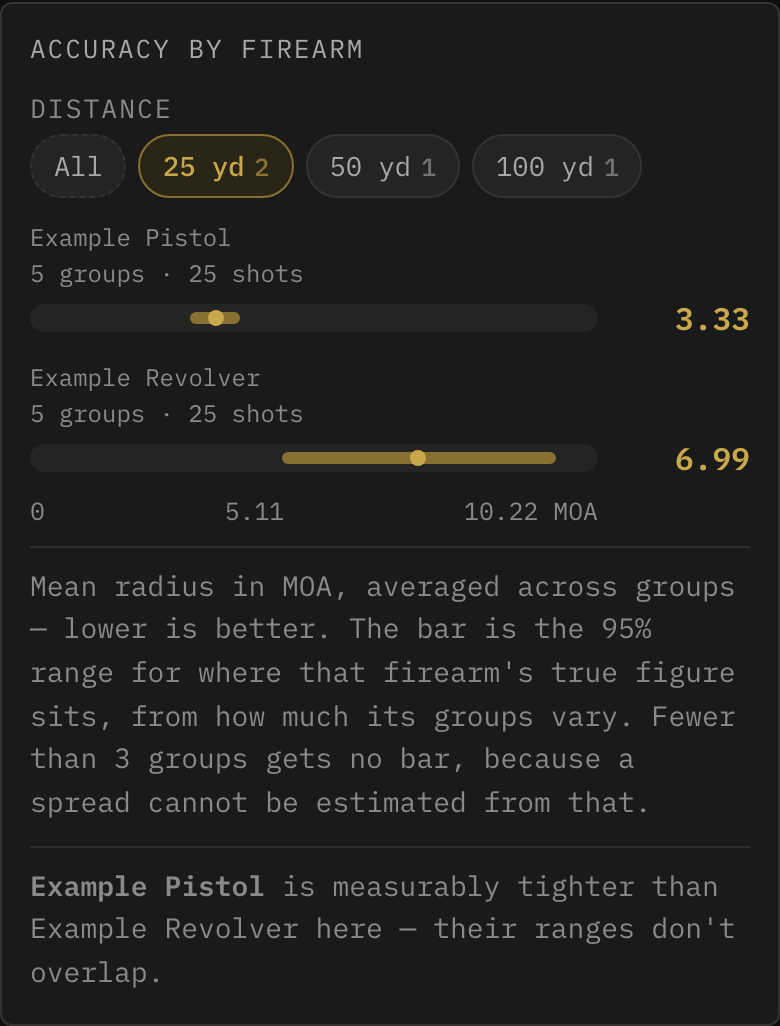
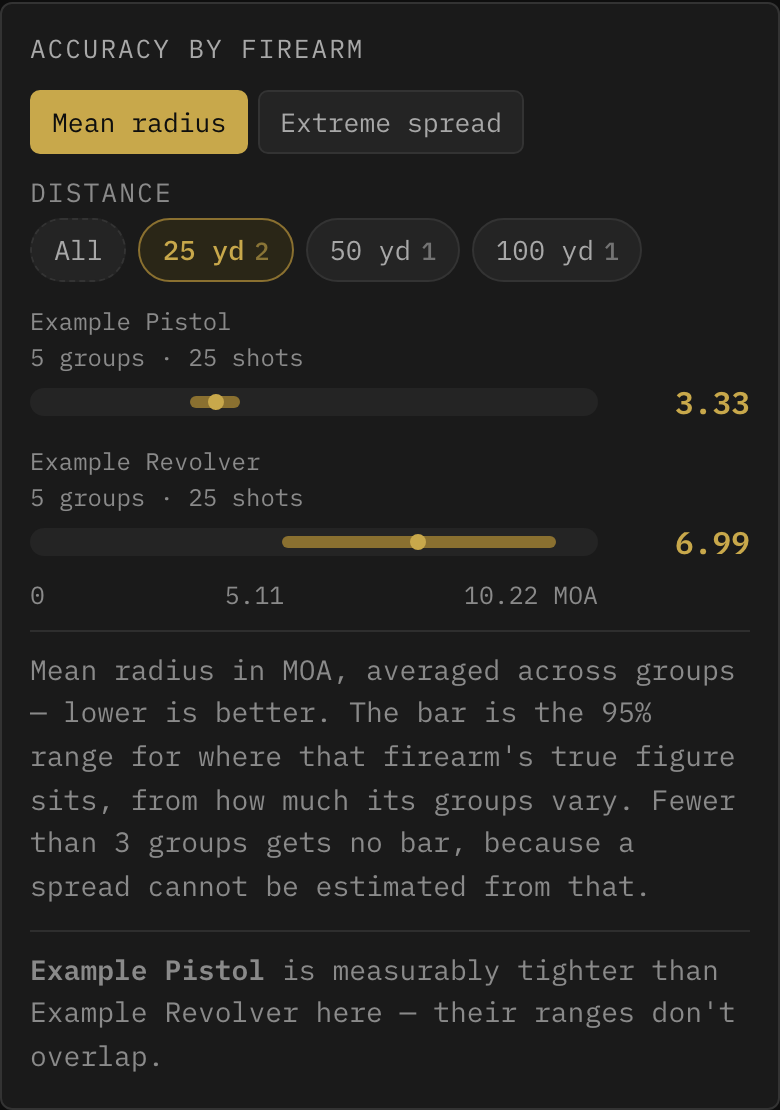
Offer extreme spread in the all-firearms comparison too (v7.8.4)
The ranking under All Firearms was still mean-radius only, so the toggle
added in 7.8.3 reached every chart for one firearm and then stopped at the
one view that compares them. It now sits at the top of that card as well and
drives the figures, the axis, the caption and the sort order.

One state, not one per pane: switch to extreme spread while comparing
firearms, pick one of them, and the single-firearm pane is already on it.
Which figure you are reading is a preference about you, not about the screen
you happen to be on. The toggle markup and the raw-geometry-to-figure step
are now shared helpers, so a third view cannot pick up one and miss the
other.

Extreme spread is most misleading exactly here, because this view ranks: a
firearm shot in 3-round strings would place above an identical one shot in
5s, purely from round count. So the Shots chips exist here too -- and unlike
ammo, which means different things across calibers and still gets no row, a
5-shot group is a 5-shot group whatever fired it. When the counts differ the
view names the range, says which way the bias runs, and points at both ways
out.

README and the two Groups screenshots follow.

diff --git a/app.js b/app.js
@@ -3856,18 +3856,20 @@ function tCrit(df) { return df < 1 ? NaN : (df < T95.length ? T95[df] : 1.96); }
 // carry no interval and take no part in any claim that two differ.
 const MIN_GROUPS_FOR_INTERVAL = 3;
 
-// Accuracy per firearm over whatever the shared filters and the distance chips leave in
-// scope. The estimate averages each group's mean radius; the uncertainty is the spread
-// *between* groups, because the question is how the firearm shoots in general, not how one
-// particular target came out.
-function firearmAccuracy(distances) {
+// Accuracy per firearm over whatever the shared filters and the scope chips leave in play.
+// The estimate averages each group's size in the metric currently selected; the uncertainty is
+// the spread *between* groups, because the question is how the firearm shoots in general, not
+// how one particular target came out.
+function firearmAccuracy(distances, shotCounts) {
+  const M = currentGroupMetric();
   const { start, end } = getStatsRangeBounds();
   const locId = document.getElementById('stats-location').value;
 
   return (data.firearms || []).map(gun => {
-    const mrs = [];
+    const vals = [];
     let shots = 0;
     const seen = new Set();
+    const counts = new Set();
     (gun.groups || []).forEach(g => {
       if (start && g.date < start) return;
       if (end && g.date > end) return;
@@ -3880,22 +3882,27 @@ function firearmAccuracy(distances) {
       const dIn = groupDistanceInches(g);
       const m = groupMetrics(groupToInches(g));
       if (!m || !dIn) return;
+      // Shot count is only known once the group has been measured, so this filter sits below
+      // the others rather than beside them.
+      if (shotCounts && shotCounts.size && !shotCounts.has(String(m.n))) return;
       seen.add(label);
-      mrs.push(toMOA(m.meanRadius, dIn));
+      counts.add(m.n);
+      vals.push(M.of(groupFigures(m, dIn)));
       shots += m.n;
     });
-    if (!mrs.length) return null;
+    if (!vals.length) return null;
 
-    const n = mrs.length;
-    const mean = mrs.reduce((a, b) => a + b, 0) / n;
+    const n = vals.length;
+    const mean = vals.reduce((a, b) => a + b, 0) / n;
     const sd = n > 1
-      ? Math.sqrt(mrs.reduce((a, b) => a + (b - mean) ** 2, 0) / (n - 1)) : 0;
+      ? Math.sqrt(vals.reduce((a, b) => a + (b - mean) ** 2, 0) / (n - 1)) : 0;
     const half = n >= MIN_GROUPS_FOR_INTERVAL ? tCrit(n - 1) * (sd / Math.sqrt(n)) : null;
     return {
       gun, n, shots, mean,
       lo: half == null ? null : Math.max(0, mean - half),
       hi: half == null ? null : mean + half,
       distances: [...seen].sort(),
+      counts: [...counts].sort((a, b) => a - b),
     };
   }).filter(Boolean).sort((a, b) => a.mean - b.mean);
 }
@@ -3906,6 +3913,27 @@ function firearmAccuracy(distances) {
 function accuracySeparated(a, b) {
   if (a.lo == null || b.lo == null) return false;
   return a.hi < b.lo || b.hi < a.lo;
+}
+
+// The all-firearms view rolls its own chips rather than reusing renderGroupScope, because its
+// counts are firearms that qualify, not groups. One builder so its two rows cannot drift apart
+// in markup or behavior, and so both hide themselves on a single value the way that pane does.
+function firearmScopeRow(dim, label, values, countOf, short = v => v) {
+  if (values.length < 2) return '';
+  const sel = groupScope[dim];
+  return `
+    <div class="scope-row">
+      <label class="filter-label">${label}</label>
+      <div class="scope-chips">
+        <button class="scope-chip scope-all${sel.size ? '' : ' on'}"
+                aria-pressed="${!sel.size}"
+                onclick="toggleGroupScope('${dim}', null)">All</button>
+        ${values.map(v => `<button class="scope-chip${sel.has(v) ? ' on' : ''}"
+            aria-pressed="${sel.has(v)}"
+            onclick="toggleGroupScope('${dim}', ${JSON.stringify(v).replace(/"/g, '&quot;')})"
+            ><span class="scope-chip-t">${esc(short(v))}</span><b>${countOf(v)}</b></button>`).join('')}
+      </div>
+    </div>`;
 }
 
 function renderFirearmCompare(el) {
@@ -3925,28 +3953,24 @@ function renderFirearmCompare(el) {
   // "type your own" in the dropdowns. Scope state starts null anyway, so the all-firearms
   // view and a fresh app agree without a special value.
   resetGroupScopeIfGunChanged(null);
-  const everything = firearmAccuracy(null);
+  const everything = firearmAccuracy(null, null);
   const allDistances = [...new Set(everything.flatMap(r => r.distances))]
     .sort((a, b) => parseFloat(a) - parseFloat(b));
+  // Shot counts compare across firearms in a way ammo does not — a 5-shot group is a 5-shot
+  // group whatever it was fired from — so unlike ammo this one earns a row here.
+  const allShots = [...new Set(everything.flatMap(r => r.counts))]
+    .sort((a, b) => a - b).map(String);
   [...groupScope.distance].forEach(d => { if (!allDistances.includes(d)) groupScope.distance.delete(d); });
+  [...groupScope.shots].forEach(v => { if (!allShots.includes(v)) groupScope.shots.delete(v); });
 
-  const rows = firearmAccuracy(groupScope.distance);
+  const rows = firearmAccuracy(groupScope.distance, groupScope.shots);
   const inScope = [...new Set(rows.flatMap(r => r.distances))];
 
-  const chips = allDistances.length > 1 ? `
-    <div class="scope-row">
-      <label class="filter-label">Distance</label>
-      <div class="scope-chips">
-        <button class="scope-chip scope-all${groupScope.distance.size ? '' : ' on'}"
-                onclick="toggleGroupScope('distance', null)">All</button>
-        ${allDistances.map(d => {
-          const n = everything.filter(r => r.distances.includes(d)).length;
-          return `<button class="scope-chip${groupScope.distance.has(d) ? ' on' : ''}"
-                    onclick="toggleGroupScope('distance', ${JSON.stringify(d).replace(/"/g, '&quot;')})"
-                    ><span class="scope-chip-t">${esc(d)}</span><b>${n}</b></button>`;
-        }).join('')}
-      </div>
-    </div>` : '';
+  const chips =
+    firearmScopeRow('distance', 'Distance', allDistances,
+      d => everything.filter(r => r.distances.includes(d)).length) +
+    firearmScopeRow('shots', 'Shots', allShots,
+      v => everything.filter(r => r.counts.includes(Number(v))).length, v => `${v}-shot`);
 
   // The gap between a bench rifle at 50 yd and a handgun at 25 ft dwarfs any difference
   // between the firearms themselves, so an unfiltered list mostly ranks shooting positions.
@@ -3956,8 +3980,21 @@ function renderFirearmCompare(el) {
       different disciplines before they are different firearms — <b>pick one distance</b> for
       this to be about the firearms.</span></div>` : '';
 
+  // Extreme spread grows with round count, so ranking firearms by it across a mix of shot
+  // counts partly ranks the strings they happened to be shot in. Only said under the metric it
+  // applies to, and only when the mix is really there — in which case the Shots row is showing,
+  // since it appears under exactly this condition.
+  const countsInScope = [...new Set(rows.flatMap(r => r.counts))].sort((a, b) => a - b);
+  const mixedShots = groupMetric === 'es' && countsInScope.length > 1 ? `
+    <div class="poi-caveat"><span class="i">⚠</span><span>These groups run
+      ${countsInScope[0]} to ${countsInScope[countsInScope.length - 1]} shots, and extreme
+      spread grows with shot count — whichever firearm was shot in shorter strings is flattered
+      here. <b>Pick one shot count</b> above, or read this on mean radius, which does not
+      drift with it.</span></div>` : '';
+
   if (!rows.length) {
-    el.innerHTML = `<div class="stats-chart-card">${chips}
+    el.innerHTML = `<div class="stats-chart-card">
+      ${groupMetricToggle()}${chips}
       <div class="stats-empty">No measurable groups in this range.</div></div>`;
     return;
   }
@@ -4008,15 +4045,17 @@ function renderFirearmCompare(el) {
   el.innerHTML = `
     <div class="stats-chart-card">
       <div class="stats-chart-title">Accuracy by firearm</div>
+      ${groupMetricToggle()}
       ${chips}
       ${rowsHtml}
       <div class="fa-axis"><span>0</span><span>${gFmt(max / 2)}</span><span>${gFmt(max)} MOA</span></div>
-      <div class="stats-note">Mean radius in MOA, averaged across groups — lower is better.
+      <div class="stats-note">${currentGroupMetric().label} in MOA, averaged across groups — lower is better.
         The bar is the 95% range for where that firearm's true figure sits, from how much its
         groups vary. Fewer than ${MIN_GROUPS_FOR_INTERVAL} groups gets no bar, because a
         spread cannot be estimated from that.</div>
       ${verdict}
       ${mixed}
+      ${mixedShots}
     </div>`;
 }
 
@@ -4041,6 +4080,25 @@ const GROUP_METRICS = {
 let groupMetric = 'mr';
 
 function currentGroupMetric() { return GROUP_METRICS[groupMetric] || GROUP_METRICS.mr; }
+
+// The shape both accessors read, built from raw geometry. Every view that wants "the figure"
+// goes through this and GROUP_METRICS.of rather than converting one of them itself, so the
+// toggle can never reach one chart and miss another.
+function groupFigures(m, dIn) {
+  return { mrMOA: toMOA(m.meanRadius, dIn), esMOA: toMOA(m.es, dIn) };
+}
+
+// The toggle itself. Rendered in both places that plot group size — the per-firearm pane and
+// the all-firearms comparison — off the same state, since which figure you are reading is one
+// preference and not one per screen.
+function groupMetricToggle() {
+  const cur = currentGroupMetric();
+  return `<div class="metric-ctrl" role="group" aria-label="Group size metric">
+    ${Object.values(GROUP_METRICS).map(o => `<button type="button"
+      class="${o.key === cur.key ? 'on' : ''}" aria-pressed="${o.key === cur.key}"
+      onclick="setGroupMetric('${o.key}')">${o.label}</button>`).join('')}
+  </div>`;
+}
 
 function setGroupMetric(key) {
   if (!GROUP_METRICS[key]) return;
@@ -4111,11 +4169,7 @@ function renderGroupsStats() {
   const sizes = groups.map(M.of);
   const days = [...new Set(groups.map(g => g.date))];
   document.getElementById('stats-groups-stats').innerHTML = `
-    <div class="metric-ctrl" role="group" aria-label="Group size metric">
-      ${Object.values(GROUP_METRICS).map(o => `<button type="button"
-        class="${o.key === M.key ? 'on' : ''}" aria-pressed="${o.key === M.key}"
-        onclick="setGroupMetric('${o.key}')">${o.label}</button>`).join('')}
-    </div>
+    ${groupMetricToggle()}
     <div class="stats-stat-grid">
       <div class="stats-stat-box">
         <div class="stats-stat-num">${gFmt(statsMedian(sizes))}<span class="unit"> MOA</span></div>
@@ -7316,7 +7370,7 @@ refreshAvailablePhotoIds().then(() => {
 });
 
 // ── SERVICE WORKER & UPDATE CHECK ─────────────────────────────────
-const APP_VERSION = '7.8.3';
+const APP_VERSION = '7.8.4';
 
 function showUpdateBanner() {
   const banner = document.getElementById('update-banner');

diff --git a/test/app.test.js b/test/app.test.js
@@ -1436,6 +1436,107 @@ describe('accuracy by firearm', () => {
     assert.strictEqual(countFor(win, 'A', true), 3, 'narrowing to one distance drops the rest');
   });
 
+  // ── THE METRIC, IN THE ALL-FIREARMS VIEW ──────────────────────────
+  // This pane ranks firearms against each other, which is exactly where extreme spread is
+  // most misleading: it grows with round count, so a firearm shot in 3-round strings would
+  // place above an identical one shot in 5s. It is offered anyway, because it is the figure
+  // people quote — with the mix named when there is one, and chips to remove it.
+
+  const promptText = win => flat(win.document.getElementById('stats-groups-prompt'));
+  const metricBtn = (win, label) =>
+    [...win.document.querySelectorAll('#stats-groups-prompt .metric-ctrl button')]
+      .find(b => flat(b) === label);
+  const scopeRowFor = (win, label) =>
+    [...win.document.querySelectorAll('#stats-groups-prompt .scope-row')]
+      .find(r => flat(r.querySelector('.filter-label')) === label);
+
+  test('the comparison offers both figures, and starts on mean radius', async () => {
+    const win = await app([{ name: 'Loose', groups: LOOSE }, { name: 'Tight', groups: TIGHT }]);
+    const btns = [...win.document.querySelectorAll('#stats-groups-prompt .metric-ctrl button')];
+    assert.deepStrictEqual(btns.map(b => flat(b)), ['Mean radius', 'Extreme spread']);
+    assert.ok(metricBtn(win, 'Mean radius').classList.contains('on'));
+    assert.match(promptText(win), /Mean radius in MOA, averaged across groups/);
+  });
+
+  test('switching moves every figure, not just the caption', async () => {
+    const win = await app([{ name: 'Loose', groups: LOOSE }, { name: 'Tight', groups: TIGHT }]);
+    const mr = rows(win).find(r => r.name === 'Tight').val;
+    win.setGroupMetric('es');
+    const es = rows(win).find(r => r.name === 'Tight').val;
+    // Five shots on a ring: extreme spread is the longest chord, 2r·sin72° = 1.902r.
+    assert.ok(Math.abs(parseFloat(es) / parseFloat(mr) - 1.902) < 0.02,
+      `expected about 1.9x, got ${es} against ${mr}`);
+    assert.match(promptText(win), /Extreme spread in MOA, averaged across groups/);
+    assert.doesNotMatch(promptText(win), /Mean radius in MOA/,
+      'the caption must not keep describing the figure you switched away from');
+  });
+
+  test('the ordering still holds when the metric changes', async () => {
+    const win = await app([{ name: 'Loose', groups: LOOSE }, { name: 'Tight', groups: TIGHT }]);
+    win.setGroupMetric('es');
+    assert.strictEqual(rows(win)[0].name, 'Tight',
+      'a ranked list must re-sort on the figure it is showing');
+  });
+
+  test('the choice carries over to a single firearm rather than resetting', async () => {
+    const win = await app([{ name: 'Loose', groups: LOOSE }, { name: 'Tight', groups: TIGHT }]);
+    win.setGroupMetric('es');
+    win.document.getElementById('stats-firearm').value = 'g2';
+    win.renderStats();
+    assert.match(flat(win.document.getElementById('stats-groups-stats')),
+      /Median extreme spread/, 'which figure you are reading is one preference, not one per pane');
+  });
+
+  test('a mix of shot counts is called out, but only under extreme spread', async () => {
+    const threes = [1, 2, 3].map((d, i) => ringGroup(`a${i}`, `2026-05-0${d}`, 0.5, 3));
+    const fives = [1, 2, 3].map((d, i) => ringGroup(`b${i}`, `2026-05-0${d}`, 0.5, 5));
+    const win = await app([{ name: 'Short strings', groups: threes },
+                           { name: 'Long strings', groups: fives }]);
+    assert.doesNotMatch(promptText(win), /grows with shot count/,
+      'mean radius does not drift with round count, so there is nothing to warn about');
+    win.setGroupMetric('es');
+    assert.match(promptText(win), /These groups run 3 to 5 shots/);
+    assert.match(promptText(win), /shorter strings is flattered/);
+  });
+
+  test('a Shots row is offered only when the count actually varies', async () => {
+    const even = await app([{ name: 'A', groups: TIGHT }, { name: 'B', groups: LOOSE }]);
+    assert.ok(!scopeRowFor(even, 'Shots'), 'one count across every firearm is not a choice');
+
+    const threes = [1, 2, 3].map((d, i) => ringGroup(`a${i}`, `2026-05-0${d}`, 0.5, 3));
+    const win = await app([{ name: 'A', groups: [...threes, ...TIGHT] },
+                           { name: 'B', groups: LOOSE }]);
+    assert.ok(scopeRowFor(win, 'Shots'), 'a mix is exactly what needs narrowing');
+  });
+
+  test('picking one shot count narrows the comparison and clears the caveat', async () => {
+    const threes = [1, 2, 3].map((d, i) => ringGroup(`a${i}`, `2026-05-0${d}`, 0.5, 3));
+    const win = await app([{ name: 'A', groups: [...threes, ...TIGHT] },
+                           { name: 'B', groups: LOOSE }]);
+    win.setGroupMetric('es');
+    assert.match(promptText(win), /These groups run 3 to 5 shots/);
+    const n = name => win.eval(
+      `firearmAccuracy(groupScope.distance, groupScope.shots)
+         .find(r => r.gun.name === ${JSON.stringify(name)}).n`);
+    assert.strictEqual(n('A'), 7, 'three 3-shot groups plus four 5-shot ones');
+    win.toggleGroupScope('shots', '5');
+    assert.strictEqual(n('A'), 4, 'narrowing to 5-shot drops the short strings');
+    assert.doesNotMatch(promptText(win), /These groups run/,
+      'one count in scope is one measurement, so there is no mix left to warn about');
+  });
+
+  test('a shot count that leaves the range is dropped, not left stuck', async () => {
+    const threes = [1, 2, 3].map((d, i) => ringGroup(`a${i}`, `2026-05-0${d}`, 0.5, 3));
+    const win = await app([{ name: 'A', groups: [...threes, ...TIGHT] },
+                           { name: 'B', groups: LOOSE }]);
+    win.toggleGroupScope('shots', '3');
+    assert.strictEqual(win.eval('groupScope.shots.size'), 1);
+    win.eval("data.firearms[0].groups = data.firearms[0].groups.filter(g => g.impacts.length === 5);");
+    win.renderStats();
+    assert.strictEqual(win.eval('groupScope.shots.size'), 0,
+      'a selection you cannot see or clear would silently empty the pane');
+  });
+
   test('mixed distances are called out as mixed disciplines', async () => {
     const near = [1, 2, 3].map((d, i) => ringGroup(`n${i}`, `2026-05-0${d}`, 0.5, 5, 25));
     const far = [1, 2, 3].map((d, i) => ringGroup(`f${i}`, `2026-05-0${d}`, 0.5, 5, 100));

diff --git a/sw.js b/sw.js
@@ -1,7 +1,7 @@
 // Range Log service worker
 // Strategy: network-first for HTML so app updates propagate quickly.
 // Bump APP_VERSION whenever the HTML changes to force a new SW install.
-const APP_VERSION = '7.8.3';
+const APP_VERSION = '7.8.4';
 const CACHE_NAME = `range-log-${APP_VERSION}`;
 
 // No install handler on purpose: skipWaiting is not called here. The new worker waits until

diff --git a/index.html b/index.html
@@ -23,7 +23,7 @@
 <div id="app">
   <header>
     <h1>RANGE LOG</h1>
-    <span id="app-version">v7.8.3</span>
+    <span id="app-version">v7.8.4</span>
   </header>
   <nav>
     <button class="active" onclick="showTab('dashboard')">Home</button>

diff --git a/README.md b/README.md
@@ -172,9 +172,11 @@ and after a zero aren't the same measurement. The time range picker offers your 
 it.
 
 **Comparing firearms.** Leave the firearm filter on **All Firearms** and the pane compares them
-instead. Each sits at its mean radius in MOA, averaged across its groups, with a bar showing the
+instead. Each sits at its group size in MOA, averaged across its groups, with a bar showing the
 95% range for its true figure — derived from how much its own groups vary, not from how many
-shots you fired.
+shots you fired. The same **mean radius / extreme spread** toggle sits at the top, and the list
+re-sorts on whichever you pick — which figure you're reading is one preference, not one per
+pane, so it follows you when you switch to a single firearm and back.
 
 It won't rank a firearm with **fewer than three groups** — two can agree by luck, and no spread
 can be estimated from them — so those show a figure, no bar, and take no part in the comparison.
@@ -184,6 +186,14 @@ doesn't support. More groups narrow the bars.
 Pin the distance first: a handgun at 25 ft and a rifle at 50 yd differ by discipline long before
 they differ as firearms. With more than one distance in scope, the view says so and offers chips
 to narrow it.
+
+**Shots** chips are here too, and matter more than they do on a single firearm: this is a
+ranking, and on extreme spread a firearm shot in 3-round strings would place above an identical
+one shot in 5s purely from the round count. So when the counts differ the view names them and
+says which way the bias runs, with chips to pin one — or you can read the ranking on mean
+radius, which doesn't drift with it. A shot count is comparable across firearms in a way ammo
+isn't, which is why *ammo* still gets no row here: a load means a different thing in a different
+caliber, so filtering on it would compare things that were never alternatives.
 
 **Narrowing what's in play.** Four rows of chips — **ammo**, **distance**, **tag**, **shots** —
 drive all three charts. Several within a row mean *or*; across rows means *and*, so *55gr FMJ*
@@ -304,7 +314,8 @@ whichever had fewer shots.
 and doesn't drift with sample size, which makes it the fair way to compare groups.
 
 **Which one you're looking at is always named.** A group listed on its own leads with **extreme
-spread**, because that's the figure people quote. Stats → Groups defaults to **mean radius**,
+spread**, because that's the figure people quote. Every chart under Stats → Groups — the
+single-firearm pane and the all-firearms ranking alike — defaults to **mean radius**,
 because ranking loads by extreme spread would favor whichever you happened to shoot in 3-round
 strings — and offers a toggle to the other, since the figure you'd quote is worth seeing a trend
 in too. Every label, chart title and note follows the toggle, so the screen never quotes one
